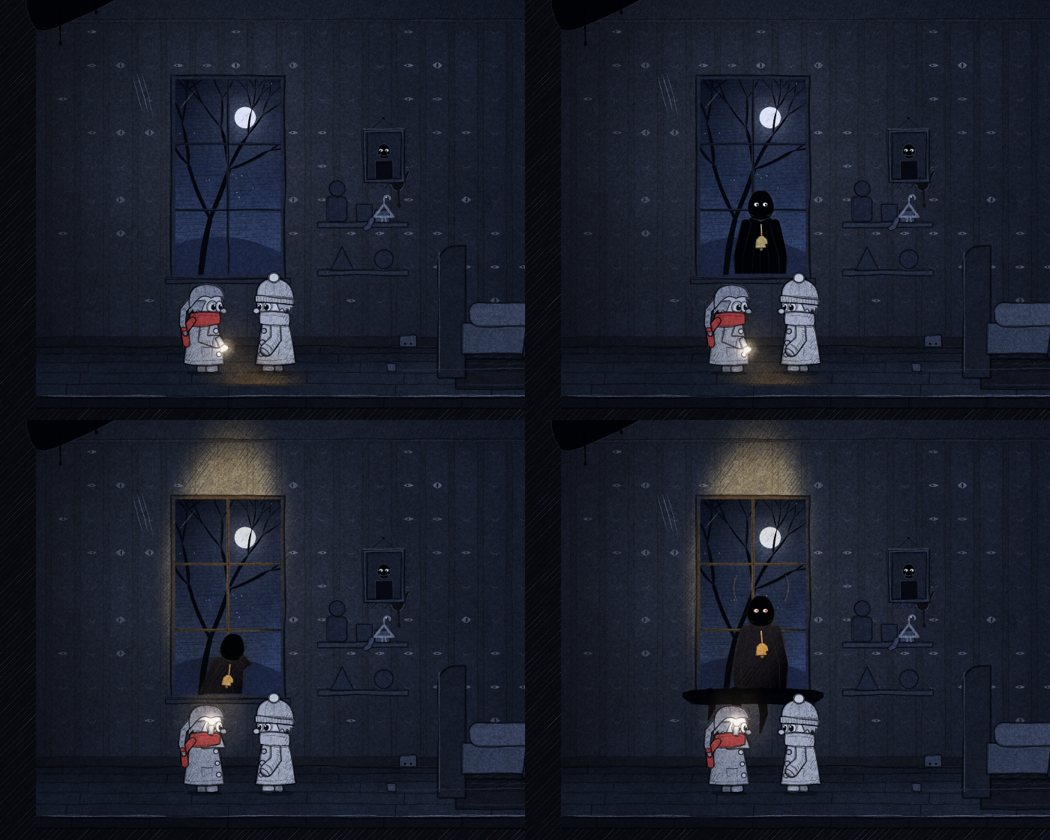
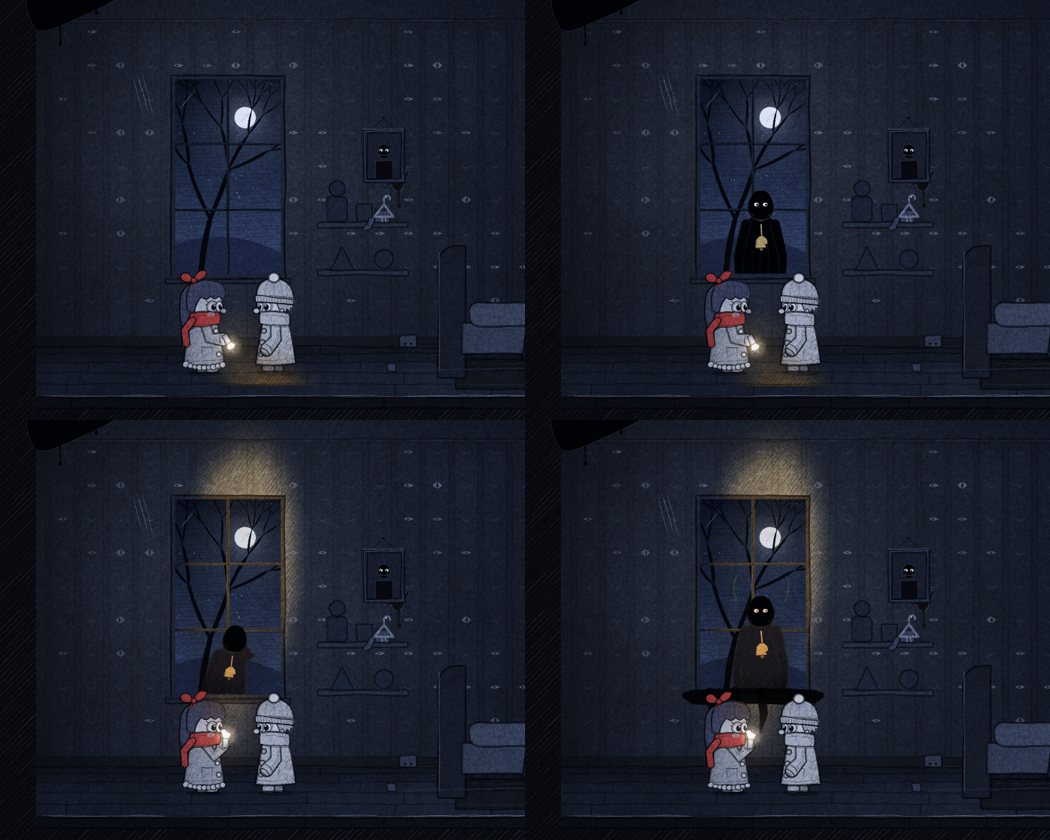
夜里的房子：她的样子改得更像女孩
主人说只有红围巾不够、头发有点秃。改成齐刘海、披到肩膀的头发、
头顶一只红蝴蝶结、睫毛和腮红、大衣下摆一圈花边。

Claude-Session: https://claude.ai/code/session_01RrfmtfCnUEaV221LCosTB7

diff --git a/games/house.html b/games/house.html
@@ -9865,7 +9865,7 @@ const coldOf = h => { const [r, g2, b] = hexRGB(h); return hexMix('#2b3450', '#c
 const KIDD = Object.fromEntries(Object.entries(KIDC).map(([n, v]) => [n, n === 'pupil' ? '#0b0d14' : coldOf(v)]));
 // 她（隔壁的小伙伴）：灰蓝的大衣、红围巾（暗处也留一点红：全游戏靠它认她）、不戴帽子、一根辫子
 const GIRLC = { ...KIDC, coat: '#5d7f96', coat2: '#2f4354', collar: '#cf4438', button: '#e8dcc0', hair: '#6a3d24', leg: '#3e3a44', boot: '#5a3a2a', bootHi: '#8d6f58' };
-const GIRLD = { ...Object.fromEntries(Object.entries(GIRLC).map(([n, v]) => [n, n === 'pupil' ? '#0b0d14' : coldOf(v)])), collar: '#93363c', hair: '#4a5372' };
+const GIRLD = { ...Object.fromEntries(Object.entries(GIRLC).map(([n, v]) => [n, n === 'pupil' ? '#0b0d14' : coldOf(v)])), collar: '#93363c', hair: '#363d5c' };
 const KIDM = Object.fromEntries(Object.entries(KIDD).map(([n, v]) => [n, n === 'pupil' ? v : hexMix(v, '#dfe6f7', 0.26)]));   // 站在窗下的月光里：亮一些，还是冷的
 const KCACHE = {};
 function kidCols(lit) {
@@ -10039,12 +10039,18 @@ function drawKid(b, P0, lit) {
   const coat = TB(sway(kQ(...KSH.coat, hemF, [0.2 + (fwd + bwd) * 0.25, 2.4 + (upF + upB) * 0.2], hemB, [-8.8, 14.4], [-6.2, 24.4])));
   fill(coat, P.coat, { w: 1.1, tex: 0.32, wob: 0.8, seed: 37040 });
   shade(coat, 'coat', -12, -4.6, 2, 27, 37041);
+  if (kid.girl) for (let i = 0; i < 9; i++) { const q = i / 8, u = lerp(hemB[0] + 0.9, hemF[0] - 0.9, q), v = lerp(hemB[1], hemF[1], q) - 0.5 - Math.sin(q * Math.PI) * 1.3; fill(TB(sway(kE(u, v, 1.45, 1.25, 10))), P.lining, { w: 0.6, wob: 0.25, seed: 37330 + i }); }   // 她：下摆一圈奶白的花边
   line(TB(sway(kQ([hemB[0] + 0.4, 6.0], [0.2, 4.6], [hemF[0] - 0.3, 5.8]))), { w: 0.55, a: 0.5, seed: 37042 });
   line(TB(kQ([-1.6, 12.0], [1.4, 11.4], [4.4, 12.0])), { w: 0.75, a: 0.9, seed: 37043 }); line(TB([[-1.4, 12.0], [-1.1, 7.6]]), { w: 0.6, a: 0.7, seed: 37044 }); line(TB([[4.2, 12.0], [4.0, 7.6]]), { w: 0.6, a: 0.7, seed: 37045 });
   [[5.9, 19.8], [6.6, 14.0], [7.3, 8.4]].forEach(([u, v], i) => fill(TB(kE(u, v, 1.25, 1.25, 12)), P.button, { w: 0.7, wob: 0.2, seed: 37046 + i }));
   if (!front) sleeve(near, P.coat, 37060);
+  const gsw = kid.girl ? Math.sin(V.T * 2.3) * 0.5 - w * 1.6 : 0;
+  if (kid.girl) {   // 她：脑后披下来的头发，垂到肩膀（画在脸后面）
+    fill(TH(kQ([2.0, 43.6], [-11.8, 44.6], [-11.4, 33.0], [-12.6 + gsw * 0.4, 26.0], [-10.4 + gsw * 0.7, 20.6], [-6.6 + gsw * 0.5, 19.8], [-4.2, 22.6], [-4.6, 30.0], [2.0, 43.6])), P.hair, { w: 0.9, wob: 0.5, seed: 37340 });
+    for (let i = 0; i < 3; i++) line(TH(kQ([-9.6 + i * 1.6, 38.0], [-11.0 + i * 1.7 + gsw * 0.3, 30.0], [-9.8 + i * 1.8 + gsw * 0.6, 22.0])), { w: 0.5, a: 0.4, seed: 37342 + i });
+  }
   fill(TH(kE(1.6, 33.0, 7.6, 7.8, 24)), P.skin, { w: 1.0, wob: 0.5, seed: 37070 });
-  fill(TH(KSH.hairBack), P.hair, { w: 0.8, wob: 0.4, seed: 37071 });
+  if (!kid.girl) fill(TH(KSH.hairBack), P.hair, { w: 0.8, wob: 0.4, seed: 37071 });
   const wide = fear > 0.3, eo = wide ? 1.12 : 1, po = wide ? 0.68 : 1, lk = wide ? 0.5 : 0, lu = p.look * 0.5;
   if (kid.blink > 0 && !wide) {
     line(TH(kQ([2.0, 31.4], [4.0, 30.4], [6.0, 31.3])), { w: 0.8, a: 0.95, seed: 37072 });
@@ -10060,15 +10066,19 @@ function drawKid(b, P0, lit) {
   fill(collar, P.collar, { w: 1.05, wob: 0.6, seed: 37080 });
   shade(collar, 'collar', -9, -3, 20, 31, 37081);
   line(TB(kQ([-6.0, 26.8], [0.6, 28.0], [7.0, 27.2])), { w: 0.55, a: 0.55, seed: 37082 });
-  if (kid.girl) {   // 她：围巾垂下来的一截、头发、一根辫子（不戴帽子）
-    const sw2 = Math.sin(V.T * 2.3) * 0.5 - w * 1.6;
+  if (kid.girl) {   // 她：围巾垂下来的一截；齐刘海、鬓角；头顶偏后一只红蝴蝶结；睫毛、腮红（不戴帽子）
+    const sw2 = gsw;
     fill(tube(TB([[-5.6, 25.0], [-9.6 + sw2 * 0.5, 20.0], [-9.2 + sw2, 13.6]]), [3.3 * KK, 3.5 * KK, 3.0 * KK]), P.collar, { w: 0.9, wob: 0.5, seed: 37300 });
     for (let i = 0; i < 3; i++) line(TB([[-10.4 + i * 1.1 + sw2, 13.4], [-10.6 + i * 1.1 + sw2 * 1.2, 11.4]]), { w: 0.6, a: 0.8, taper: 0, col: P.collar, seed: 37302 + i });
-    fill(tube(TH([[-6.0, 35.0], [-10.2, 30.0], [-10.8 + sw2 * 0.6, 23.0], [-9.6 + sw2, 18.4]]), [3.6 * KK, 3.2 * KK, 2.6 * KK, 1.6 * KK]), P.hair, { w: 0.8, wob: 0.4, seed: 37310 });
-    for (let i = 0; i < 4; i++) line(TH([[-9.2 - i * 0.35, 31.0 - i * 3.0], [-11.4 - i * 0.1, 29.6 - i * 3.0]]), { w: 0.5, a: 0.5, taper: 0, seed: 37312 + i });
-    fill(TH(kE(-10.3 + sw2 * 0.8, 20.6, 1.5, 1.2, 10)), P.collar, { w: 0.6, wob: 0.2, seed: 37318 });
-    fill(TH(kQ([-6.6, 30.6], [-9.2, 42.6], [1.2, 42.9], [10.4, 42.4], [9.9, 35.6], [6.4, 37.4], [3.4, 35.4], [0.2, 37.6], [-2.4, 35.2], [-4.0, 33.6], [-6.6, 30.6])), P.hair, { w: 0.9, wob: 0.5, seed: 37320 });
-    [-0.5, 0, 0.5].forEach((t, i) => line(TH(kQ([t * 9 + 1, 37.6], [t * 9.8 + 0.6, 40.6], [t * 5 + 0.4, 42.4])), { w: 0.5, a: 0.4, seed: 37322 + i }));
+    fill(TH(kQ([-7.8, 29.6], [-11.4, 44.8], [1.4, 45.0], [12.4, 44.6], [10.7, 36.0], [9.0, 34.4], [7.2, 36.4], [5.3, 34.0], [3.3, 36.4], [1.2, 33.8], [-1.2, 36.0], [-3.6, 33.4], [-4.4, 29.4], [-6.0, 27.6], [-7.8, 29.6])), P.hair, { w: 0.9, wob: 0.5, seed: 37320 });
+    [-0.6, -0.2, 0.2, 0.6].forEach((t, i) => line(TH(kQ([t * 9.4 + 1, 36.6], [t * 10.6 + 0.8, 41.2], [t * 5 + 0.6, 44.4])), { w: 0.5, a: 0.4, seed: 37322 + i }));
+    const bw = [-5.0, 44.6];   // 蝴蝶结：两片、一个结、两根垂下来的带子
+    fill(TH(kQ(bw, [-8.6, 50.6], [-11.4, 46.6], [-10.6, 42.6], bw)), P.collar, { w: 0.8, wob: 0.3, seed: 37350 });
+    fill(TH(kQ(bw, [-3.4, 50.8], [1.2, 48.8], [0.6, 44.4], bw)), P.collar, { w: 0.8, wob: 0.3, seed: 37351 });
+    line(TH([[bw[0], bw[1]], [-7.4 + sw2 * 0.4, 40.6]]), { w: 1.1, a: 0.95, taper: 0, col: P.collar, seed: 37352 }); line(TH([[bw[0], bw[1]], [-4.2 + sw2 * 0.4, 40.2]]), { w: 1.1, a: 0.95, taper: 0, col: P.collar, seed: 37353 });
+    fill(TH(kE(bw[0], bw[1], 1.5, 1.4, 10)), P.collar, { w: 0.8, wob: 0.2, seed: 37354 });
+    if (!(kid.blink > 0) || fear > 0.3) { line(TH([[2.3, 33.6], [1.0, 34.7]]), { w: 0.7, a: 0.9, taper: 0, seed: 37356 }); line(TH([[1.9, 32.4], [0.5, 32.9]]), { w: 0.7, a: 0.9, taper: 0, seed: 37357 }); line(TH([[8.7, 33.4], [9.7, 34.4]]), { w: 0.6, a: 0.85, taper: 0, seed: 37358 }); }
+    fill(TH(kE(3.4, 27.9, 1.9, 1.2, 10)), P.nose, { line: 0, wob: 0.2, fa: 0.55, seed: 37359 });
   } else {
   const hat = TH(KSH.hat);
   fill(hat, P.hat, { w: 1.1, tex: 0.3, wob: 0.7, seed: 37083 });

diff --git a/docs/night-opening.md b/docs/night-opening.md
@@ -25,7 +25,11 @@
 
 ## 她
 
-和孩子同一副身子（`drawKid`，`kid.girl`）：灰蓝的大衣、红围巾（垂下来一截）、不戴帽子、一根辫子、手里一盏小手灯。暗处衣服照旧变冷变灰，**只有围巾留着一点红**（`GIRLD.collar`），靠它认她。颜色在 `GIRLC`、`GIRLD`。
+和孩子同一副身子（`drawKid`，`kid.girl`）：灰蓝的大衣、下摆一圈奶白的花边、红围巾（垂下来一截）、手里一盏小手灯。不戴帽子：齐刘海，头发披到肩膀，头顶偏后一只红蝴蝶结；眼角有睫毛，脸上一点腮红。暗处衣服照旧变冷变灰，**围巾和蝴蝶结留着一点红**（`GIRLD.collar`），靠它认她。颜色在 `GIRLC`、`GIRLD`。
+
+2026-11-27（后来）：第一版只有红围巾和一根细辫子，主人说“能不能设计得更女性化一点”“头发那样感觉有点秃”，改成了现在这样。左边是暗处，右边是灯下：
+
+![她的样子](images/opening-girl.jpg)
 
 ## 黑长衣
 
@@ -43,7 +47,7 @@
 - `node tools/check.mjs`：和改之前一字不差。
 - `node tools/autoplay.cjs sim 1-21`：21 关都走得完（第 1 关多了开场的 9 秒）。
 - 无头 Chrome：开场逐段截图看过（上面两张）；点一下能跳过；`?nointro=1`、`?lv=21` 不演；第 21 关黑长衣的新样子看过；手机竖屏（390×844）看过一帧，没有报错。
-- **没验证的**：没有真人玩过；铃声没有听过（无头浏览器不出声）；浏览器第一次打开、还没点过屏幕的时候多半不出声，开场会是哑的；她在灯光里（亮的一层）的样子开场里用不到，没看过。
+- **没验证的**：没有真人玩过；铃声没有听过（无头浏览器不出声）；浏览器第一次打开、还没点过屏幕的时候多半不出声，开场会是哑的；她在灯光里（亮的一层）的样子开场里用不到，只摆了一盏灯看过一张（上面那张的右半边）。
 
 ## 还没做
 
